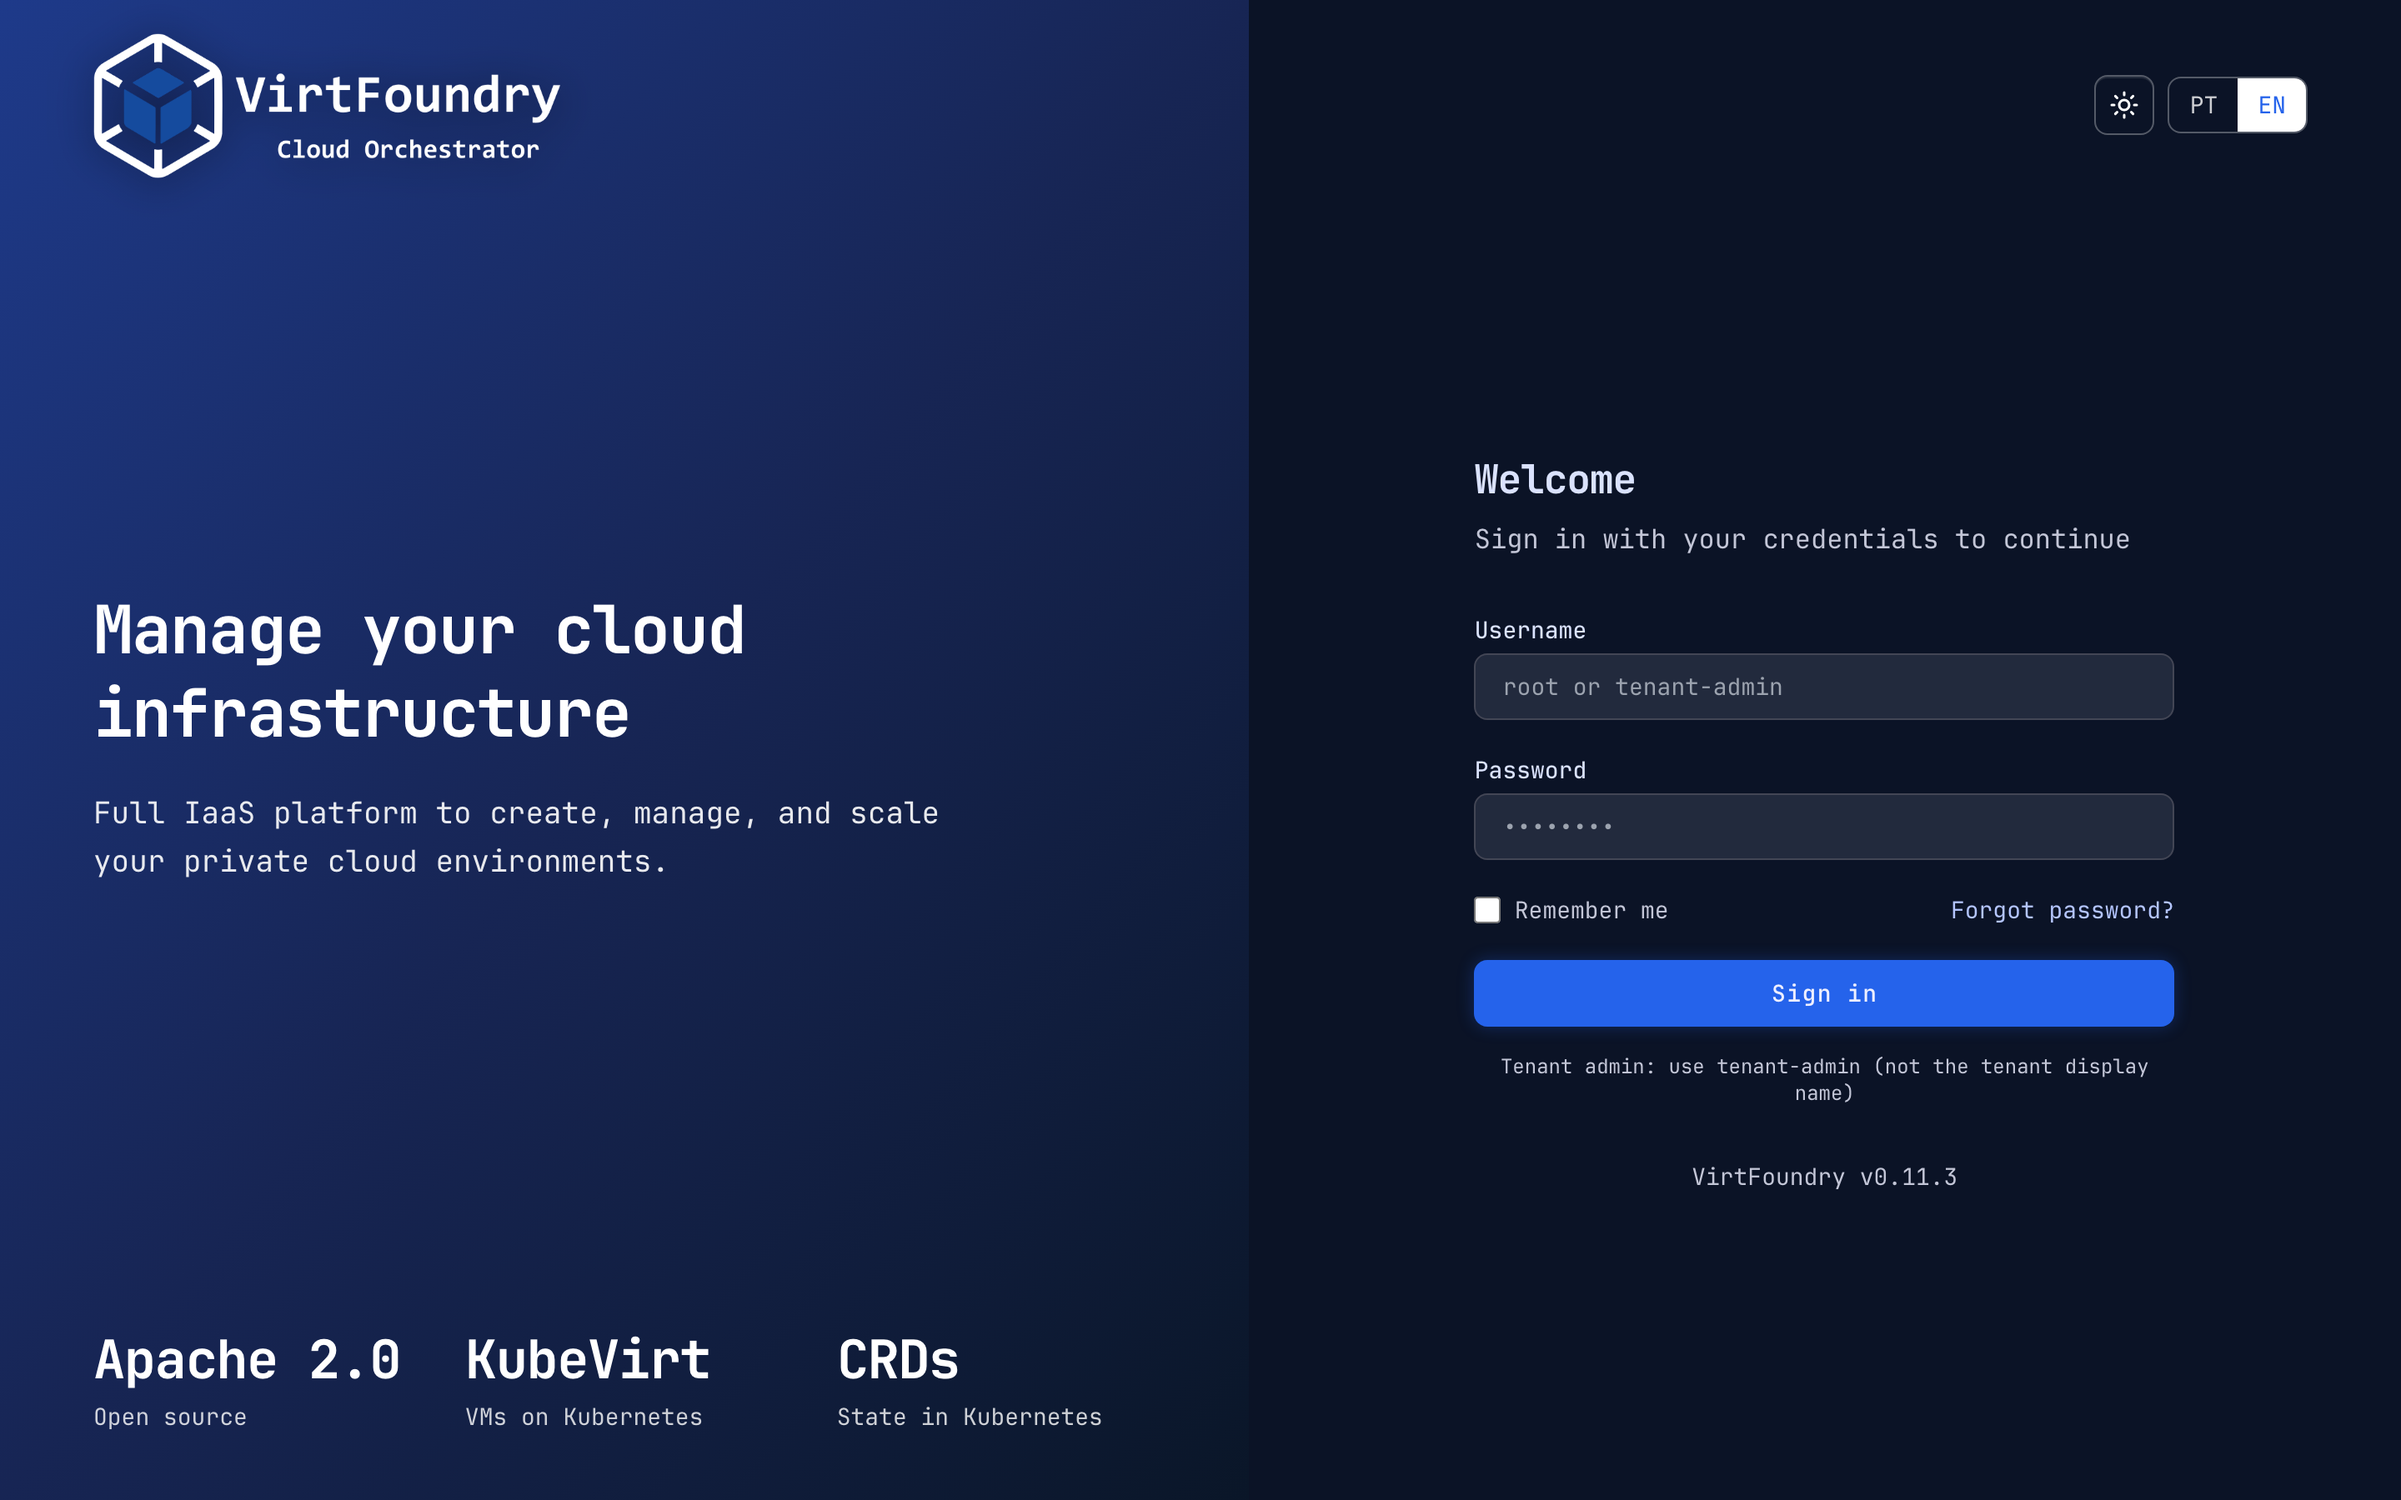
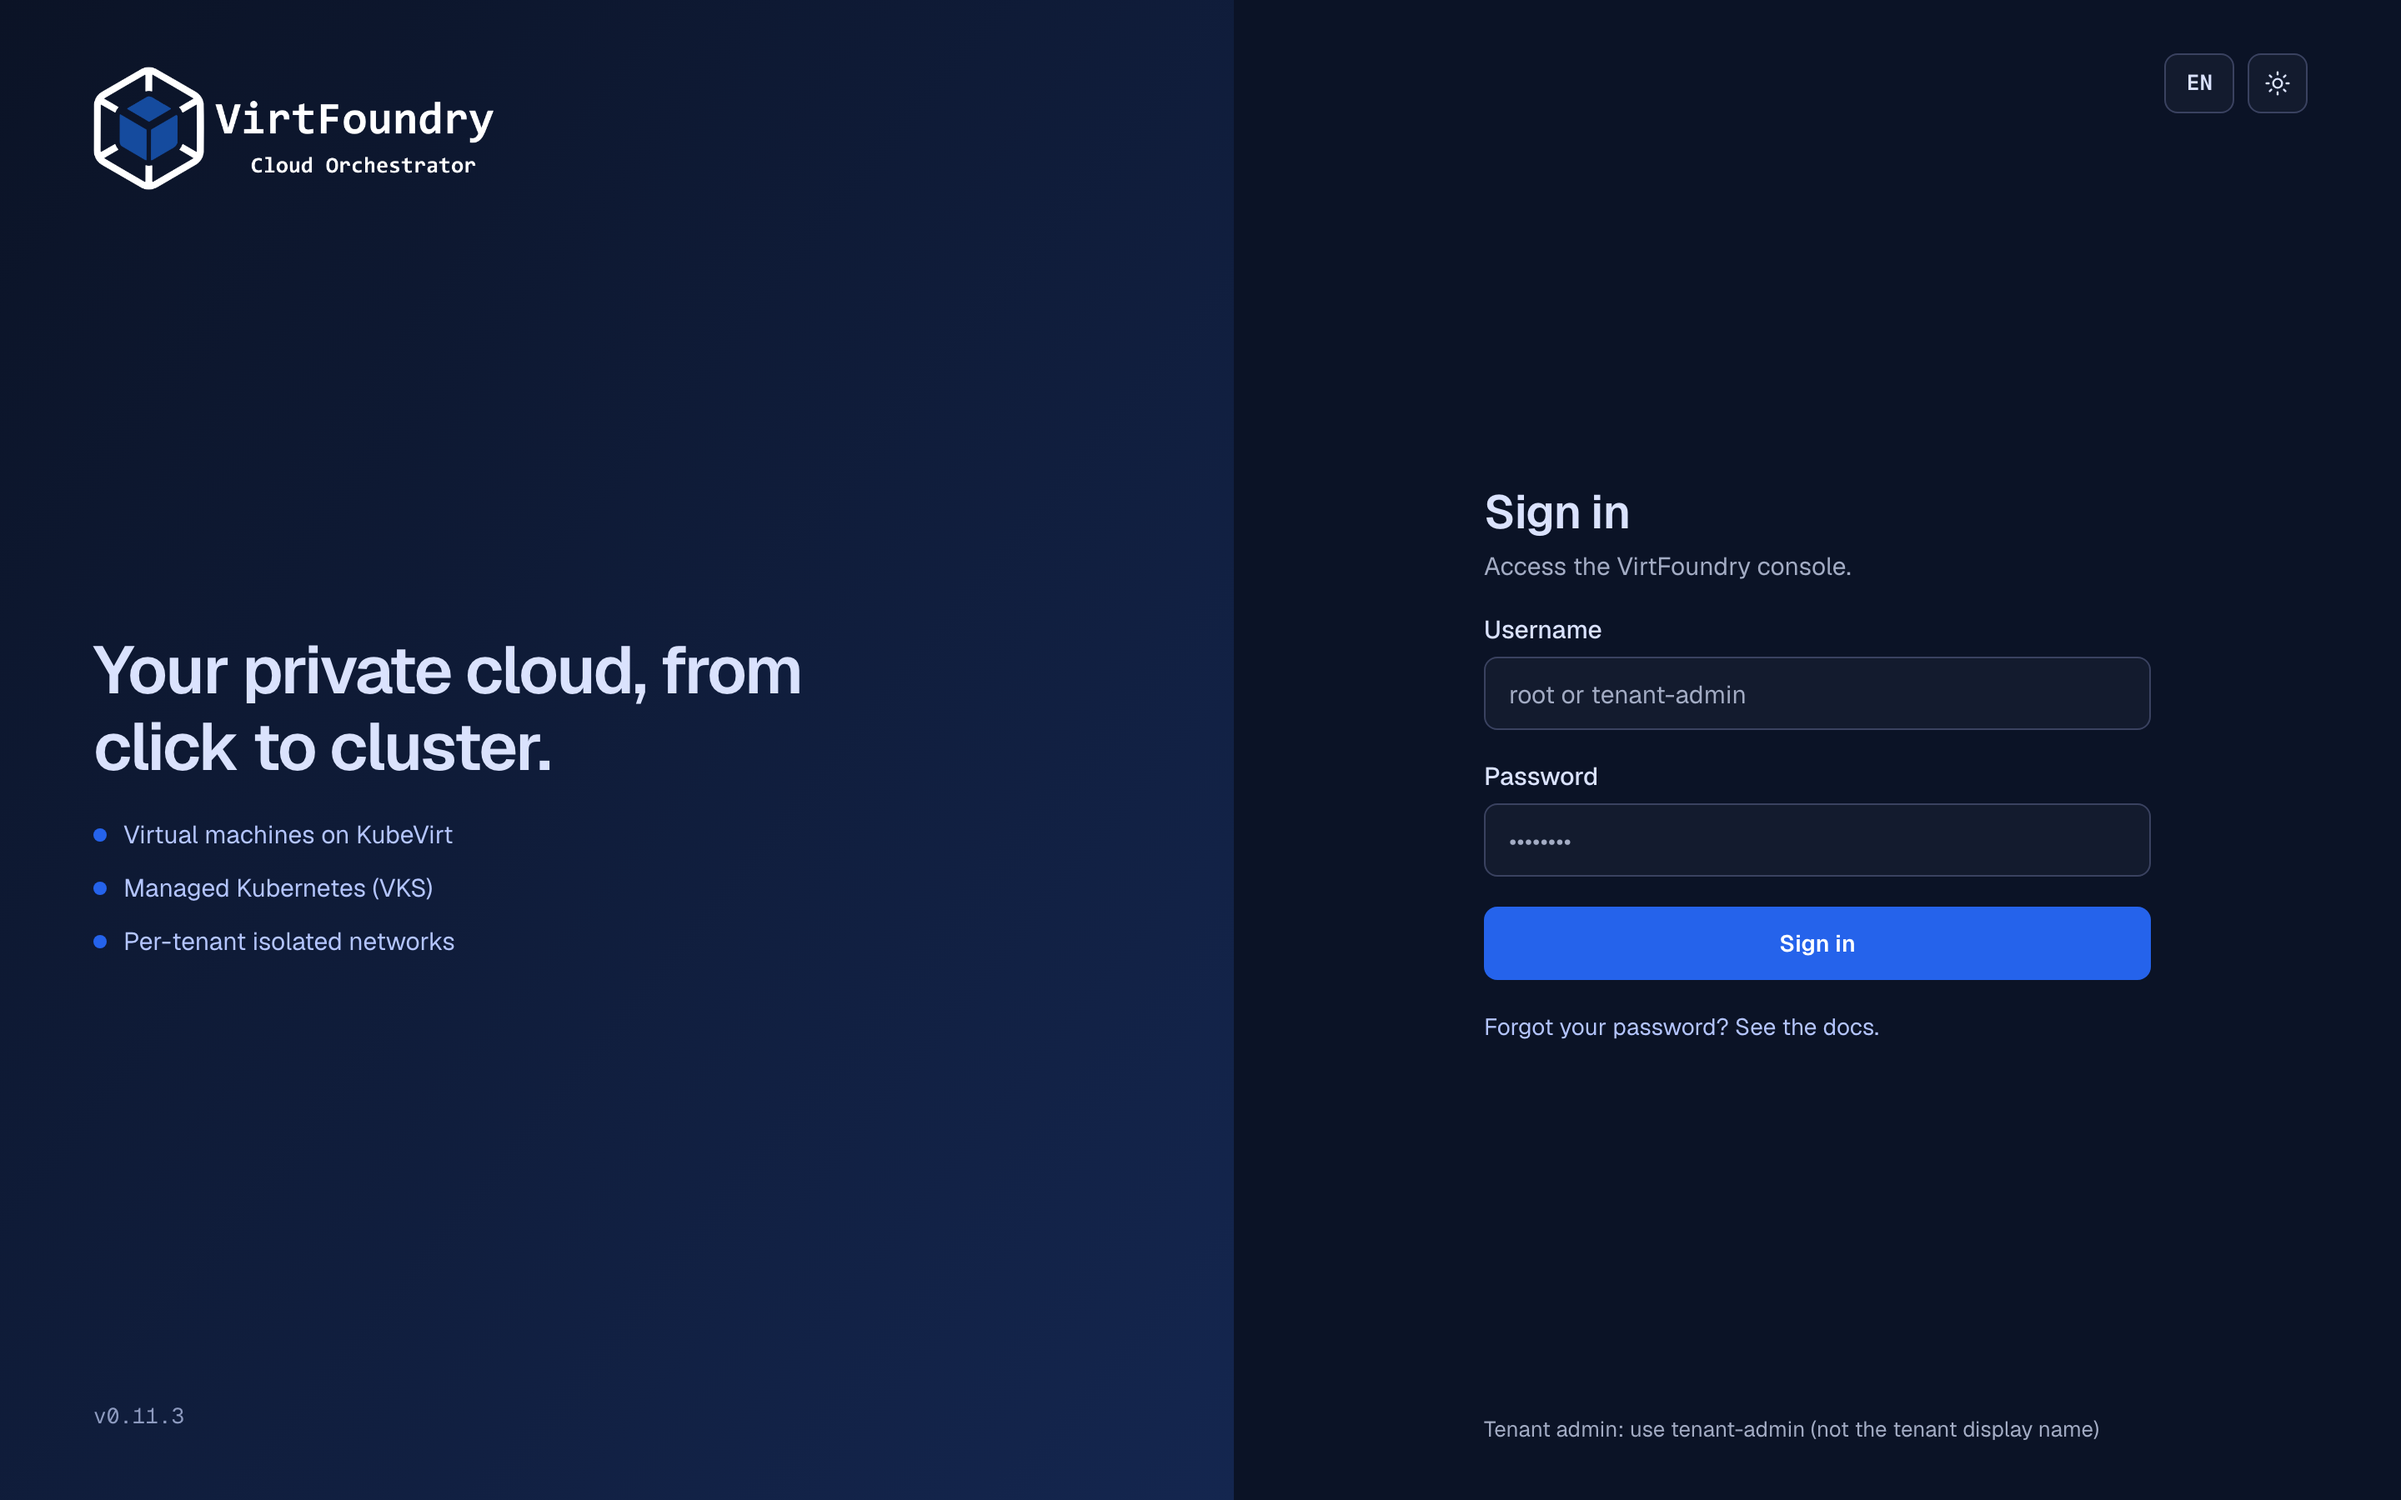
docs: refresh UI screenshots for the redesigned console
Recaptured from the homelab on the new UI (v0.11.3 digest 8ee79e8): login, dashboard with cluster overview, VMs, templates, volumes, networks, snapshots, VKS clusters and a new settings shot. capture-ui-shots.py now sets the locale via localStorage, since the language button shows the current locale instead of the target.

diff --git a/scripts/docs/capture-ui-shots.py b/scripts/docs/capture-ui-shots.py
@@ -21,6 +21,7 @@ PAGES = [
     ("07-networks.png", "/networks"),
     ("08-vm-snapshots.png", "/vm-snapshots"),
     ("09-clusters.png", "/clusters"),
+    ("10-settings.png", "/settings"),
 ]
 
 
@@ -31,9 +32,8 @@ def main() -> None:
     with sync_playwright() as p:
         browser = p.chromium.launch(headless=True)
         page = browser.new_page(viewport={"width": 1440, "height": 900}, device_scale_factor=2, color_scheme="dark")
-        page.add_init_script("localStorage.setItem('virtfoundry_theme', 'dark')")
+        page.add_init_script("localStorage.setItem('virtfoundry_theme', 'dark'); localStorage.setItem('virtfoundry_locale', 'en')")
         page.goto(f"{BASE}/login", wait_until="networkidle")
-        page.get_by_role("button", name="EN", exact=True).click()
         page.screenshot(path=str(OUT / "01-login.png"), full_page=False)
         print(f"wrote {OUT / '01-login.png'}")
         page.get_by_placeholder("root or tenant-admin").fill(USER)
